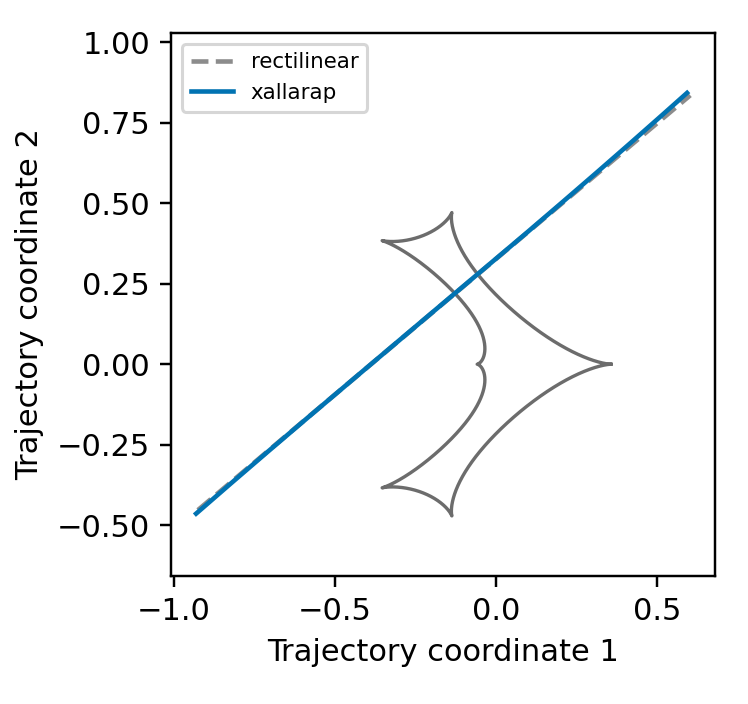
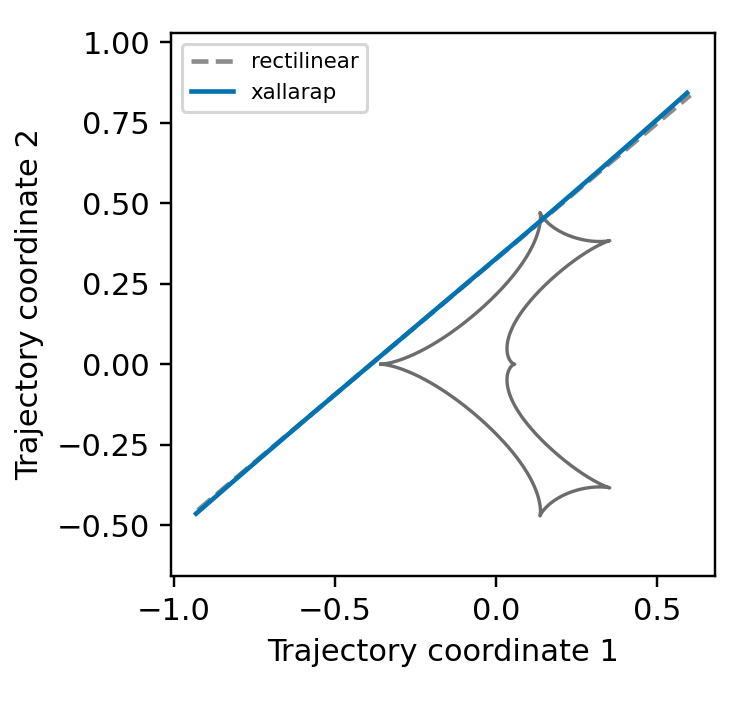
docs: keep standalone xallarap geometry unreflected

diff --git a/example/docs-python/generate_figures.py b/example/docs-python/generate_figures.py
@@ -480,7 +480,8 @@ def xallarap_single_source():
     trajectory = elements.source_trajectory(times, elements_params)
     caustics = static.caustics(elements_static_params)
     plt.figure(figsize=(3.4, 3.2))
-    plot_caustics(caustics, color="#6C6C6C", lw=1.1)
+    for x, y in zip(caustics.x, caustics.y):
+        plt.plot(x, y, color="#6C6C6C", lw=1.1)
     static_trajectory = static.source_trajectory(times, elements_static_params)
     plt.plot(static_trajectory.x, static_trajectory.y, color="0.55", ls="--", label="rectilinear")
     plt.plot(trajectory.x, trajectory.y, color="#0173B2", label="xallarap")
@@ -503,12 +504,18 @@ def xallarap_single_source():
     plt.legend(loc="upper left", fontsize=8)
     save("Xallarap_velocity_lightcurve.png")
     trajectory = velocity.source_trajectory(times, velocity_params)
-    caustics = static.caustics(velocity_static_params)
+    caustics = velocity.caustics(velocity_params)
+    peak = np.argmax(velocity(times, velocity_params))
     plt.figure(figsize=(3.4, 3.2))
-    plot_caustics(caustics, color="#6C6C6C", lw=1.1)
+    for x, y in zip(caustics.x, caustics.y):
+        plt.plot(x, y, color="#6C6C6C", lw=1.1)
     static_trajectory = static.source_trajectory(times, velocity_static_params)
     plt.plot(static_trajectory.x, static_trajectory.y, color="0.55", ls="--", label="rectilinear")
     plt.plot(trajectory.x, trajectory.y, color="#0173B2", label="xallarap")
+    plt.scatter(
+        trajectory.x[peak], trajectory.y[peak], s=12, color="#0173B2",
+        edgecolor="white", linewidth=0.45, zorder=3, label="xallarap peak",
+    )
     plt.xlabel("Trajectory coordinate 1")
     plt.ylabel("Trajectory coordinate 2")
     plt.axis("equal")

diff --git a/docs/python/Xallarap.md b/docs/python/Xallarap.md
@@ -110,13 +110,18 @@ plt.show()
 ```python
 trajectory = curve.source_trajectory(times, parameters)
 static_trajectory = static_curve.source_trajectory(times, rectilinear_parameters)
-caustics = static_curve.caustics(rectilinear_parameters)
+caustics = curve.caustics(parameters)
+peak = np.argmax(magnification)
 
 plt.figure(figsize=(3.4, 3.2))
 for x, y in zip(caustics.x, caustics.y):
     plt.plot(x, y, color="#6C6C6C", lw=1.1)
 plt.plot(static_trajectory.x, static_trajectory.y, color="0.55", ls="--", label="rectilinear")
 plt.plot(trajectory.x, trajectory.y, color="#0173B2", label="xallarap")
+plt.scatter(
+    trajectory.x[peak], trajectory.y[peak], s=12, color="#0173B2",
+    edgecolor="white", linewidth=0.45, zorder=3, label="xallarap peak",
+)
 plt.xlabel("Trajectory coordinate 1")
 plt.ylabel("Trajectory coordinate 2")
 plt.axis("equal")
@@ -125,6 +130,10 @@ plt.show()
 ```
 
 ![Velocity xallarap trajectory and caustics](figures/Xallarap_velocity_geometry.png)
+
+The marker identifies the maximum of the blue light curve. Xallarap changes
+the source trajectory only; with fixed `s` and `q`, its caustic is the same
+static binary-lens caustic.
 
 For the element parameterizations, replace `xallarap="circular_velocity"`
 with the corresponding mode and supply the parameters listed in the table.
